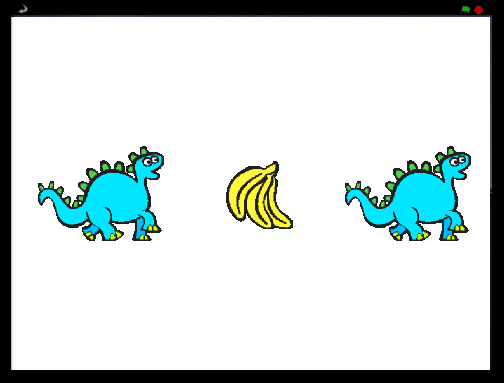
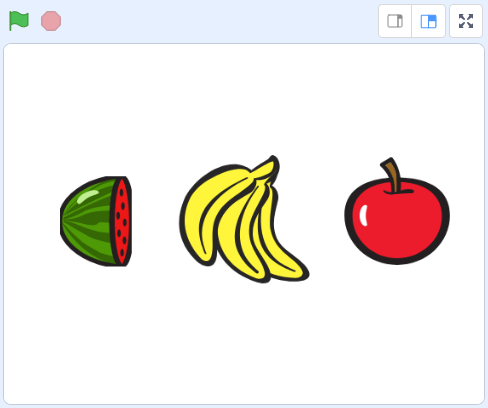
Oppdatert for scratch 3, og noe forbedret ordlyd. Skjermbilde også oppdatert til scratch 3.

diff --git a/src/scratch/enarmet_banditt/enarmet_banditt.md b/src/scratch/enarmet_banditt/enarmet_banditt.md
@@ -39,7 +39,7 @@ Dette er et spill med tre figurer som endrer utseende. Din oppgave er
 
 ## Sjekkliste {.check}
 
-- [ ] Klikk på `Skript`-fanen,
+- [ ] Klikk på `Kode`-fanen,
 
 - [ ] Legg til dette skriptet:
 
@@ -78,7 +78,7 @@ Bra! Vi kan få draktene til å bytte i det uendelige, men hvordan får vi de ti
 stoppe når vi klikker på de? En måte å gjøre dette på er ved å bruke en variabel
 som setter statusen til figuren. Dette vil vi se at er praktisk også senere.
 
-- [ ] Klikk på `Data`{.blockdata} og `Lag en variabel`.  Kall variabelen
+- [ ] Klikk på `Variabler`{.blockdata} og `Lag en variabel`.  Kall variabelen
   `stoppet`{.blockdata} og huk av for `For denne figuren`. Fjern
   avhukingen foran variabelen slik at den ikke vises på scenen.
 
@@ -104,15 +104,15 @@ som setter statusen til figuren. Dette vil vi se at er praktisk også senere.
 
 - [ ] Til slutt må vi få figuren til å slutte å forandre drakt når
   variabelen `stoppet`{.blockdata} blir `1`. Legg til en
-  `hvis`{.blockcontrol}-løkke og bruk en `_ = _`{.blockoperators}
+  `hvis`{.blockcontrol}-løkke og bruk en `<() = ()>`{.b}
   operator-kloss for å sjekke om `stoppet`{.blockdata} fremdeles er
   `0`.
 
   ```blocks
   når grønt flagg klikkes
-  sett [stoppet v] til [0]
+  sett [stoppet v] til (0)
   for alltid
-      hvis <(stoppet) = [0]>
+      hvis <(stoppet) = (0)>
           neste drakt
           vent (0.5) sekunder
       slutt
@@ -146,8 +146,8 @@ __Start skriptet en gang til ved å klikke på det grønne flagget igjen.__
 - [ ] Lag en kopi til slik at du har tre figurer på skjermen. Vi har kalt våre
   figurer `Figur1`, `Figur2` og `Figur3`.
 
-- [ ] Flytt figurene slik at de er en linje. Gjør dem mindre med
-  krympeknappen, ![krymp](../bilder/krymp.png), hvis det trengs.
+- [ ] Flytt figurene slik at de er en linje. Gjør figurene mindre ved å 
+  skrive inn et mindre tall enn "100" i feltet "Størrelse", hvis det trengs.
 
 ## Test prosjektet{.flag}
 
@@ -172,10 +172,10 @@ uforutsigbart.
   ved å bruke enten navnet eller nummeret.
 
 - [ ] For å få figuren til å starte med en tilfeldig drakt, la oss legge til en
-  `bytt drakt til`{.blocklooks}-kloss med `tilfeldig tall fra 1 til
-  3`{.blockoperators} for å velge draktnummer.
+  `bytt drakt til ()`{.b}-kloss med `tilfeldig tall fra (1) til
+  (3)`{.b} for å velge draktnummer.
 
-- [ ] Vi kan også bruke den samme klossen i `for alltid`{.blockcontrol}-løkken
+- [ ] Vi kan også bruke den samme klossen i `gjenta for alltid`{.blockcontrol}-løkken
   slik at figuren skifter til en ulik drakt hver gang den forandres.
 
   ```blocks
@@ -236,7 +236,7 @@ La oss først hente en ny bakgrunn som vi viser når spillet er over.
   slutt!`. Du kan forandre størrelsen på teksten ved å klikke på den og dra i
   hjørnene. Kall bakgrunnen `Slutt`.
 
-- [ ] Klikk på `Skript`-fanen for scenen og pass på at du bytter til
+- [ ] Klikk på `Kode`-fanen for scenen og pass på at du bytter til
   `Spill`-bakgrunnen når spillet starter.
 
 - [ ] Hvordan kan vi sjekke om alle figurene har stoppet? Husk at vi brukte
@@ -271,7 +271,7 @@ rekkefølge figurene stoppes i.
   er satt til `1`, kan vi bruke `og`{.blockoperators}-operatoren. Dette er en
   komplisert kloss som kan være litt trøblete å lage, så forsøk å gjøre ett steg
   av gangen. Legg merke til at vi har satt sammen to
-  `og`{.blockoperators}-klosser, tre `_ = _`{.blockoperators}-operatorer og tre
+  `<<> og <>>`{.b}-klosser, tre `<() = ()>`{.b}-klosser og tre
   `stoppet av Figur`{.blocksensing}-klosser.
 
   ```blocks
@@ -300,10 +300,13 @@ __Klikk på det grønne flagget.__
 Vi har tidligere skrevet kode som sjekker om spillet er over, så alt vi trenger
 å gjøre er å sjekke om spilleren har vunnet.
 
-- [ ] Gå tilbake til bakgrunnene og lag en kopi av `Slutt`-bakgrunnen. Skift
-  navn på `Slutt` til `Vinner`. Gi kopien navnet `Taper`.
+- [ ] Gå tilbake til bakgrunnene. Gi bakgrunnen `Slutt` et nytt navn, og kall den 
+  for `Vinner`.
 
 - [ ] Legg til teksten `Du vant!` på `Vinner`-bakgrunnen.
+
+- [ ] Lag en kopi av `Vinner`-bakgrunnen. Kall den
+  nye bakgrunnen for `Taper`. 
 
 - [ ] I `Taper`-bakgrunnen kan du skrive teksten `Du tapte!`.
 
